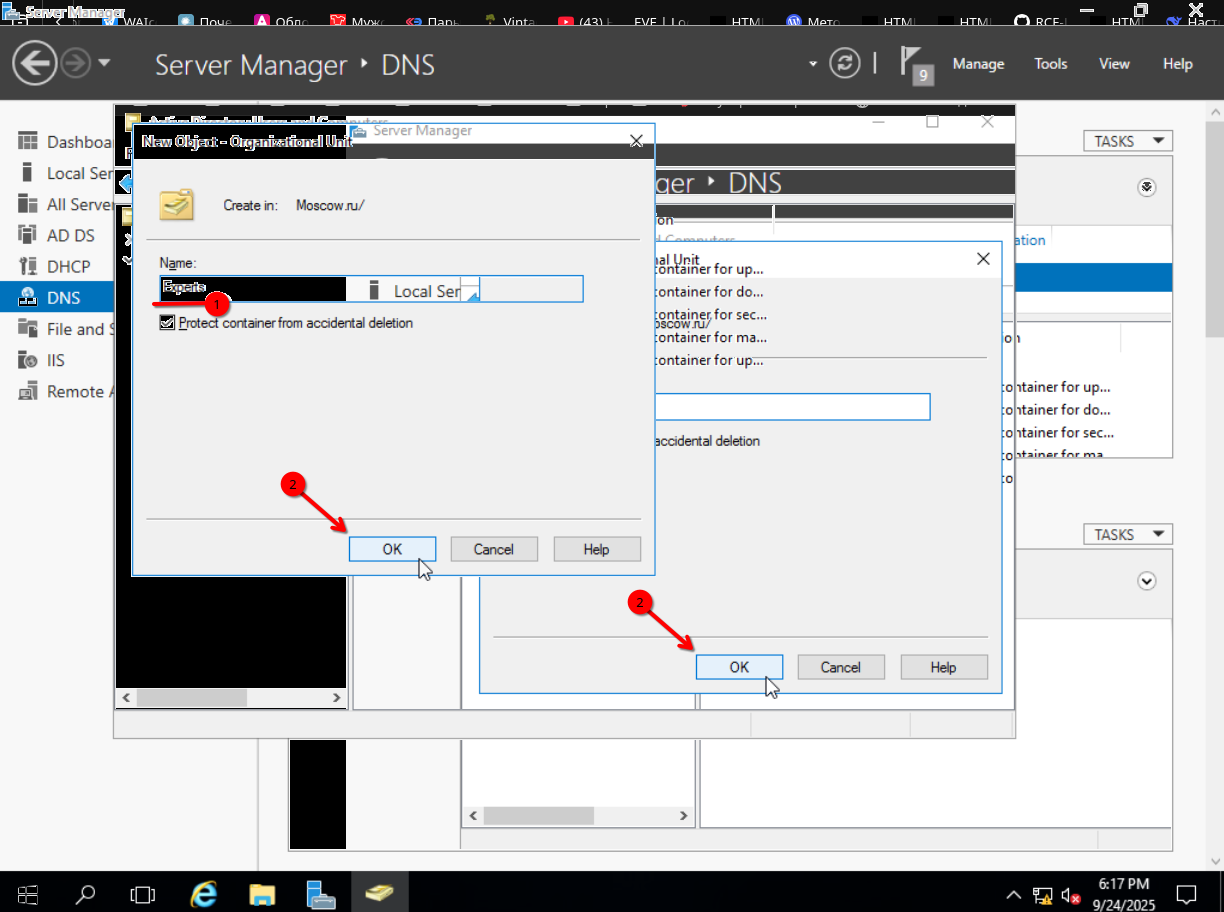
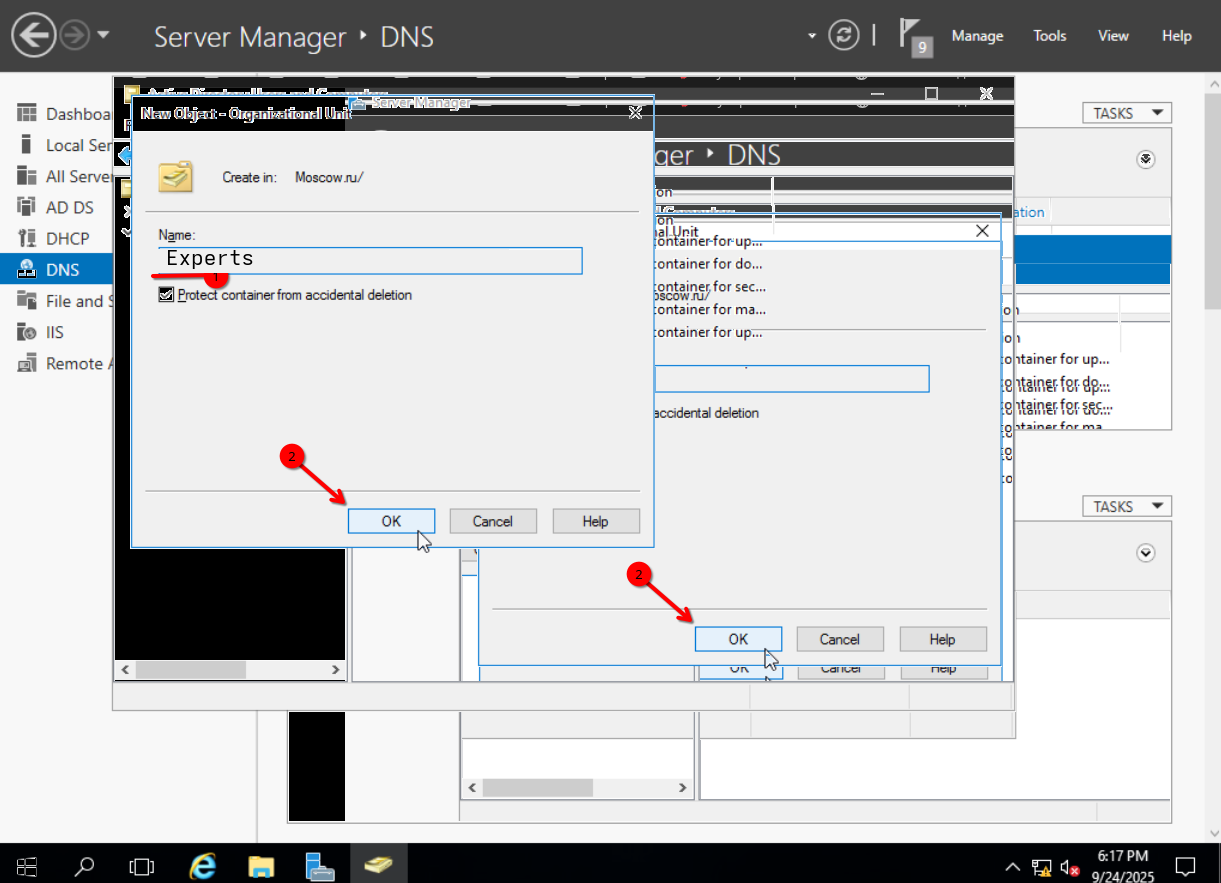
Another bit of gpo

diff --git a/SSA_ASOS_2023/SSA_ASOS_2023_Guide.md b/SSA_ASOS_2023/SSA_ASOS_2023_Guide.md
@@ -403,8 +403,56 @@ Moscow.ru должны иметь доступ к ресурсам домена 
 ![](images/SSA_ASOS_2023_Guide_20250922224528222.png)
 
 ## GPO
+### Элементы доменной инфраструктуры
+Выполним задание
+```
+Cоздайте подразделения: Experts, Competitors, Managers, Visitors, IT и Project;
+```
+Дополнительно создадим ```CompanyUsers, ClientPCs```
+
+![](images/SSA_ASOS_2023_Guide_20250924211310959.png)
+![](images/SSA_ASOS_2023_Guide_20250924212040032.png)
+![](images/SSA_ASOS_2023_Guide_20250924212119122.png)
+Создайте оставшиеся OU по аналогии
+
+Выполним задание
+```
+В соответствующих подразделениях создайте доменные группы:
+Experts, Competitors, Managers, Visitors,IT , Project_Budget-R, Project_Budget-W, Project_Intranet-R, Project_Intranet-W, Project_Logistics-R, Project_Logistics-W;
+```
+
+![](images/SSA_ASOS_2023_Guide_20250924213935911.png)
+![](images/SSA_ASOS_2023_Guide_20250924214228940.png)
+
+Создайте остальные доменные группы по аналогии
+
+```
+Создайте 3-4 пользователя(вся имеющаяся информация о пользователях должна быть внесена в Active Directory); поместите пользователей в
+соответствующие подразделения и группы; все созданные учетные записи должны быть включены и доступны;
+```
+#### Информация о пользователях
+| Полное имя       | Логин     | Должность           | Отдел      | Группы AD       | Email               | Телефон       | Пароль   |
+|------------------|-----------|---------------------|------------|-----------------|---------------------|---------------|----------|
+| Ivan Petrov      | petrov.i  | System Administrator | IT  | Experts, IT     | petrov.i@company.ru | +74951112288 | P@ssw0rd |
+| Olga Sidorova    | sidorova.o| Guest               | External Relations | Visitors      | sidorova.o@company.ru | +74951112299 | P@ssw0rd |
+| Dmitry Kovalev   | kovalev.d | Logistics Manager   | Logistics  | Logistics, Managers | kovalev.d@company.ru | +74951113300 | P@ssw0rd |
+
+
+![](images/SSA_ASOS_2023_Guide_20250924224506035.png)
+![](images/SSA_ASOS_2023_Guide_20250924224819600.png)
+![](images/SSA_ASOS_2023_Guide_20250924224921810.png)
+![](images/SSA_ASOS_2023_Guide_20250924224932019.png)
+![](images/SSA_ASOS_2023_Guide_20250924225038411.png)
+![](images/SSA_ASOS_2023_Guide_20250924225503896.png)
+![](images/SSA_ASOS_2023_Guide_20250924225630384.png)
+![](images/SSA_ASOS_2023_Guide_20250924225912037.png)
+Остальных пользователей создать по аналогии
+
+### Остальные задания GPO
+
 На **DC-M**
 Выполним задание
+
 ```
 запретите анимацию при первом входе пользователей в систему на всех клиентских компьютерах
 домена
@@ -417,51 +465,53 @@ Moscow.ru должны иметь доступ к ресурсам домена 
 ![](images/SSA_ASOS_2023_Guide_20250922235354592.png)
 ![](images/SSA_ASOS_2023_Guide_20250922235551584.png)
 ![](images/SSA_ASOS_2023_Guide_20250922235611446.png)
+![](images/SSA_ASOS_2023_Guide_20250925182213874.png)
+![](images/SSA_ASOS_2023_Guide_20250925182349965.png)
+![](images/SSA_ASOS_2023_Guide_20250925182420062.png)
+![](images/SSA_ASOS_2023_Guide_20250925182607845.png)
+![](images/SSA_ASOS_2023_Guide_20250925182735064.png)
 
 Проверим отсутствие анимации на **CLIENT-M**, авторизировавшись на нём от имени администратора домена, но перед этим компьютер нужно перезагрузить для применения групповых политик
 ![](images/SSA_ASOS_2023_Guide_20250923002144465.png)
 ![](images/SSA_ASOS_2023_Guide_20250923000036949.png)
+
 Если всё сработало, то во время входа будет надпись "Подготовка Windows" вместо стандартной анимации, начинающийся с текста "Привет!"
-### Элементы доменной инфраструктуры
+
+Выполним задание 
+```
+Члены группы IT должны быть членами группы локальных администраторов на всех клиентских компьютерах домена;
+```
+![](images/SSA_ASOS_2023_Guide_20250925185340599.png)
+![](images/SSA_ASOS_2023_Guide_20250925185409133.png)
+![](images/SSA_ASOS_2023_Guide_20250925185432565.png)
+![](images/SSA_ASOS_2023_Guide_20250925185719638.png)
+![](images/SSA_ASOS_2023_Guide_20250925185952629.png)
+![](images/SSA_ASOS_2023_Guide_20250925190119565.png)
+![](images/SSA_ASOS_2023_Guide_20250925190239591.png)
+
+Проверим работу этой политики
+Заходим на **CLIENT-M** под юзером `petrov.i`
+Обновим политики
+![](images/SSA_ASOS_2023_Guide_20250925200114389.png)
+![](images/SSA_ASOS_2023_Guide_20250925200156679.png)
+![](images/SSA_ASOS_2023_Guide_20250925200325798.png)
+
 Выполним задание
 ```
-Cоздайте подразделения: Experts, Competitors, Managers, Visitors, IT и Project;
+Запретите изменение экранной заставки и Корзину на рабочем столе для всех пользователей домена, кроме членов группы локальных администраторов клиентских компьютеров
 ```
+На **DC-M** создадим политику для всего домена с именем wallpapers_and_bin и настроим её
+![](images/SSA_ASOS_2023_Guide_20250925201733747.png)
+![](images/SSA_ASOS_2023_Guide_20250925201818858.png)
+Теперь уберём корзину с рабочего стола
+![](images/SSA_ASOS_2023_Guide_20250925202045026.png)
+![](images/SSA_ASOS_2023_Guide_20250925202108888.png)
 
-![](images/SSA_ASOS_2023_Guide_20250924211310959.png)
-![](images/SSA_ASOS_2023_Guide_20250924212040032.png)
-![](images/SSA_ASOS_2023_Guide_20250924212119122.png)
-Создайте оставшиеся OU по аналогии
+Перейдём на **CLIENT-M**
 
-Выполним задание
-```
-В соответствующих подразделениях создайте доменные группы:
-Experts, Competitors, Managers, Visitors,IT , Project_Budget-R, Project_Budget-W, Project_Intranet-R, Project_Intranet-W, Project_Logistics-R, Project_Logistics-W;
-```
-Дополнительно создадим группу ```CompanyUsers```, в последствии будем создавать пользователей в ней
+Перезагрузим его
 
-![](images/SSA_ASOS_2023_Guide_20250924213935911.png)
-![](images/SSA_ASOS_2023_Guide_20250924214228940.png)
+Зайдём под пользователем `sidorova.o`
 
-Создайте остальные доменные группы по аналогии
-
-```
-Создайте 3-4 пользователя(вся имеющаяся информация о пользователях должна быть внесена в Active Directory); поместите пользователей в
-соответствующие подразделения и группы; все созданные учетные записи должны быть включены и доступны;
-```
-Информация о пользователях
-| Полное имя       | Логин     | Должность           | Отдел      | Группы AD       | Email               | Телефон       | Пароль   |
-|------------------|-----------|---------------------|------------|-----------------|---------------------|---------------|----------|
-| Ivan Petrov      | petrov.i  | System Administrator | IT  | Experts, IT     | petrov.i@company.ru | +74951112288 | P@ssw0rd |
-| Olga Sidorova    | sidorova.o| Guest               | External Relations | Visitors      | sidorova.o@company.ru | +74951112299 | P@ssw0rd |
-| Dmitry Kovalev   | kovalev.d | Logistics Manager   | Logistics  | Logistics, Managers | kovalev.d@company.ru | +74951113300 | P@ssw0rd |
-
-![](images/SSA_ASOS_2023_Guide_20250924224506035.png)
-![](images/SSA_ASOS_2023_Guide_20250924224819600.png)
-![](images/SSA_ASOS_2023_Guide_20250924224921810.png)
-![](images/SSA_ASOS_2023_Guide_20250924224932019.png)
-![](images/SSA_ASOS_2023_Guide_20250924225038411.png)
-![](images/SSA_ASOS_2023_Guide_20250924225503896.png)
-![](images/SSA_ASOS_2023_Guide_20250924225630384.png)
-![](images/SSA_ASOS_2023_Guide_20250924225912037.png)
-Остальных пользователей создать по аналогии
+Если на рабочем столе нет корзины, значит политика применилась
+![](images/SSA_ASOS_2023_Guide_20250925225738297.png)
